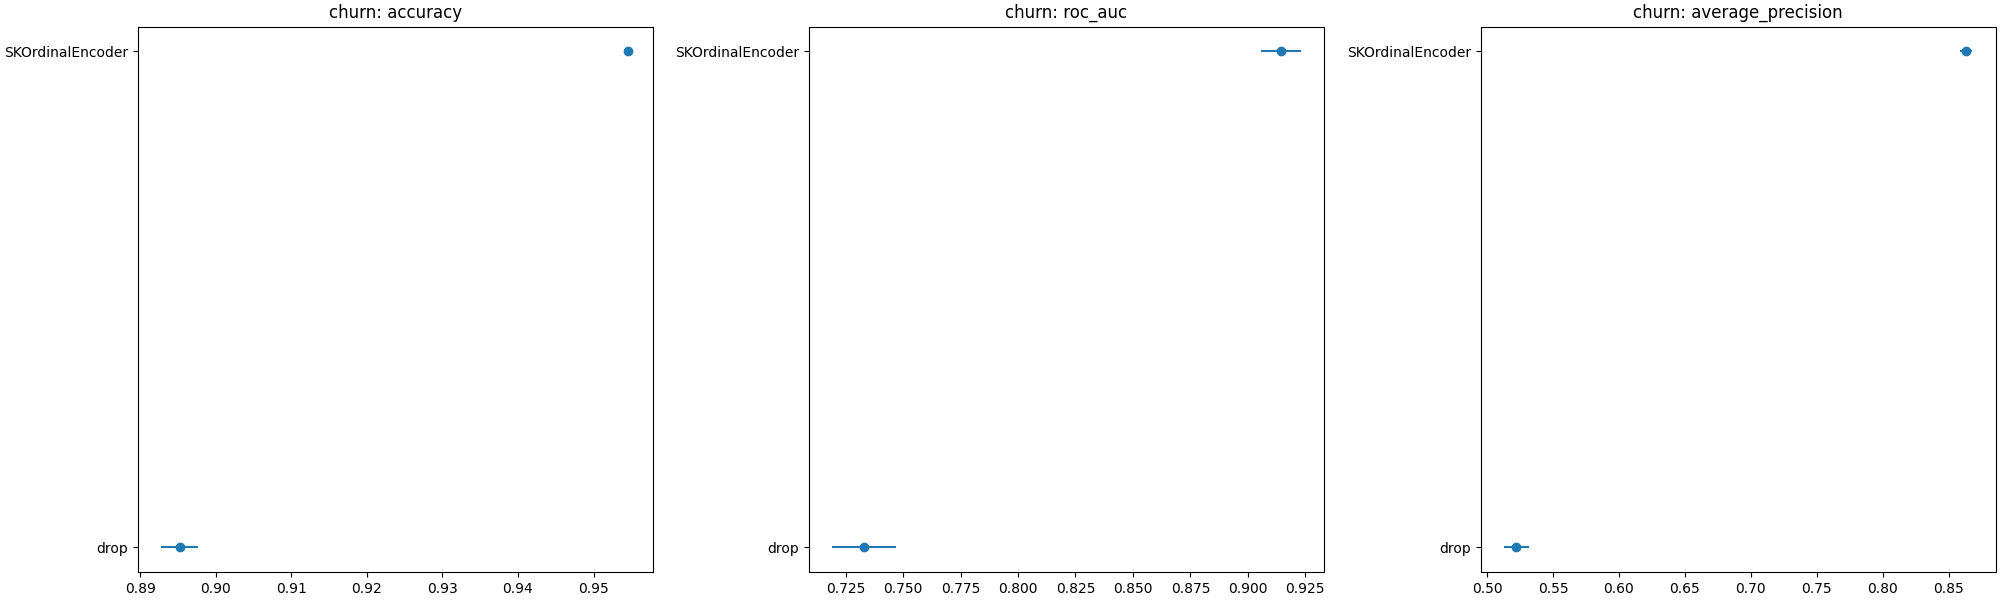
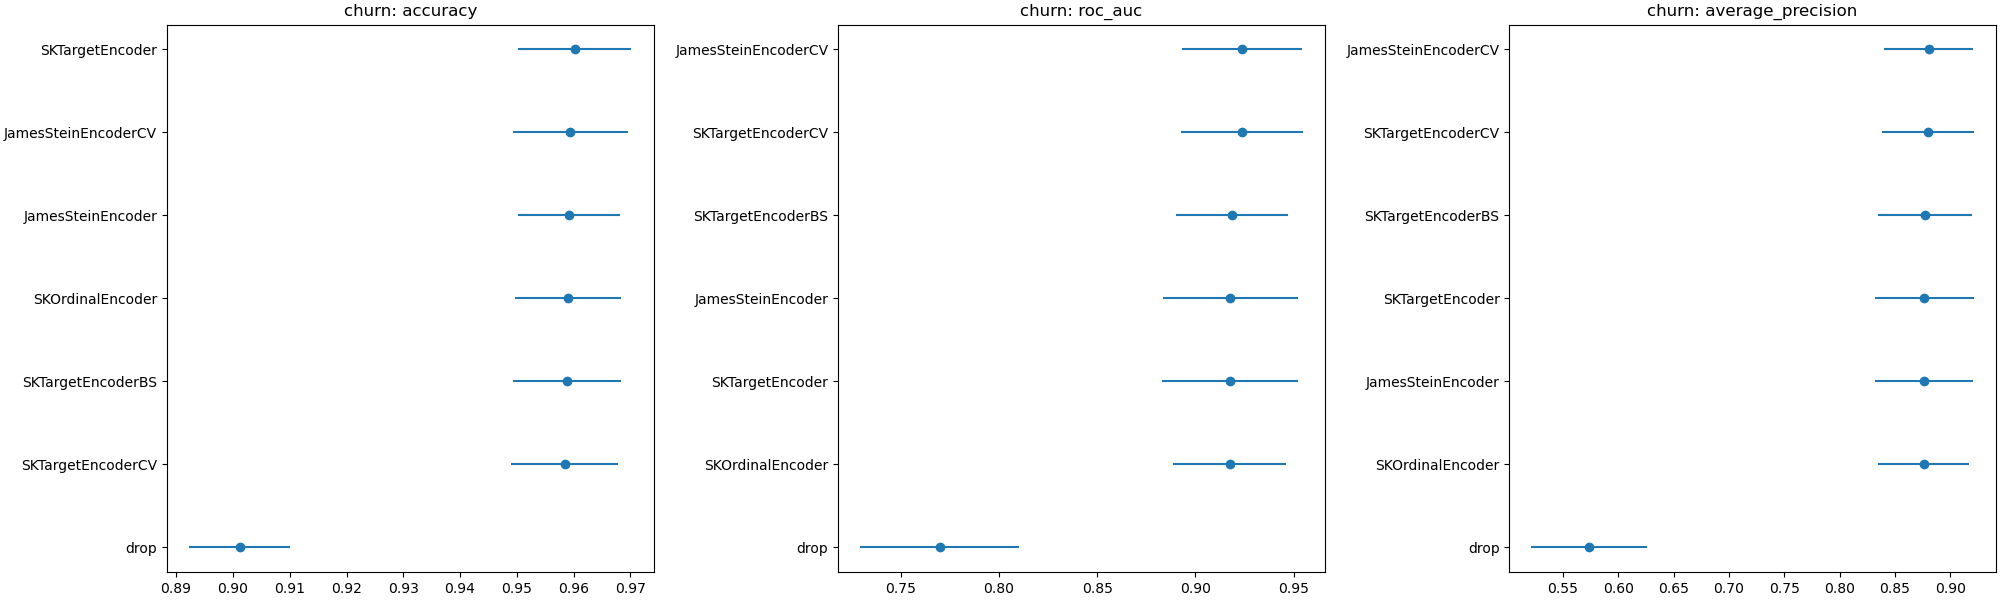
ENH Benchmark ran

diff --git a/benchmark.py b/benchmark.py
@@ -76,11 +76,11 @@ ENCODERS = {
         SimpleImputer(strategy="constant", fill_value="sk_missing"),
         OrdinalEncoder(handle_unknown="use_encoded_value", unknown_value=-1),
     ),
-    # "SKTargetEncoder": TargetRegressorEncoder(),
-    # "SKTargetEncoderCV": TargetRegressorEncoderCV(),
-    # "SKTargetEncoderBS": TargetRegressorEncoderBS(),
-    # "JamesSteinEncoder": JamesSteinEncoder(),
-    # "JamesSteinEncoderCV": NestedEncoderCV(JamesSteinEncoder()),
+    "SKTargetEncoder": TargetRegressorEncoder(),
+    "SKTargetEncoderCV": TargetRegressorEncoderCV(),
+    "SKTargetEncoderBS": TargetRegressorEncoderBS(),
+    "JamesSteinEncoder": JamesSteinEncoder(),
+    "JamesSteinEncoderCV": NestedEncoderCV(JamesSteinEncoder()),
 }
 
 
